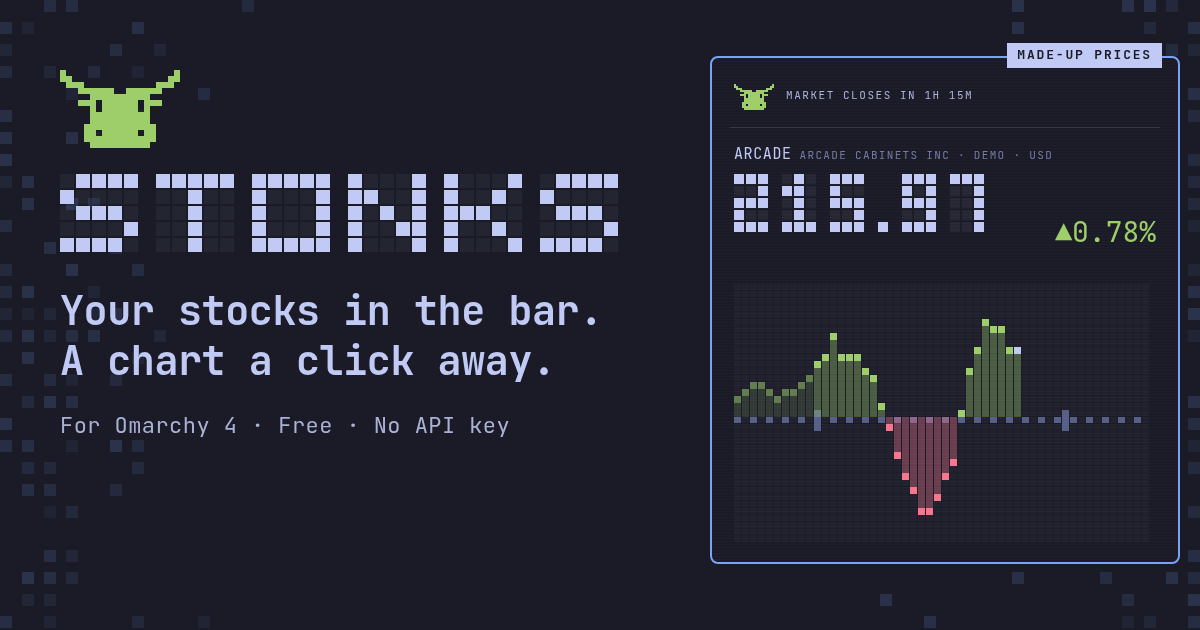
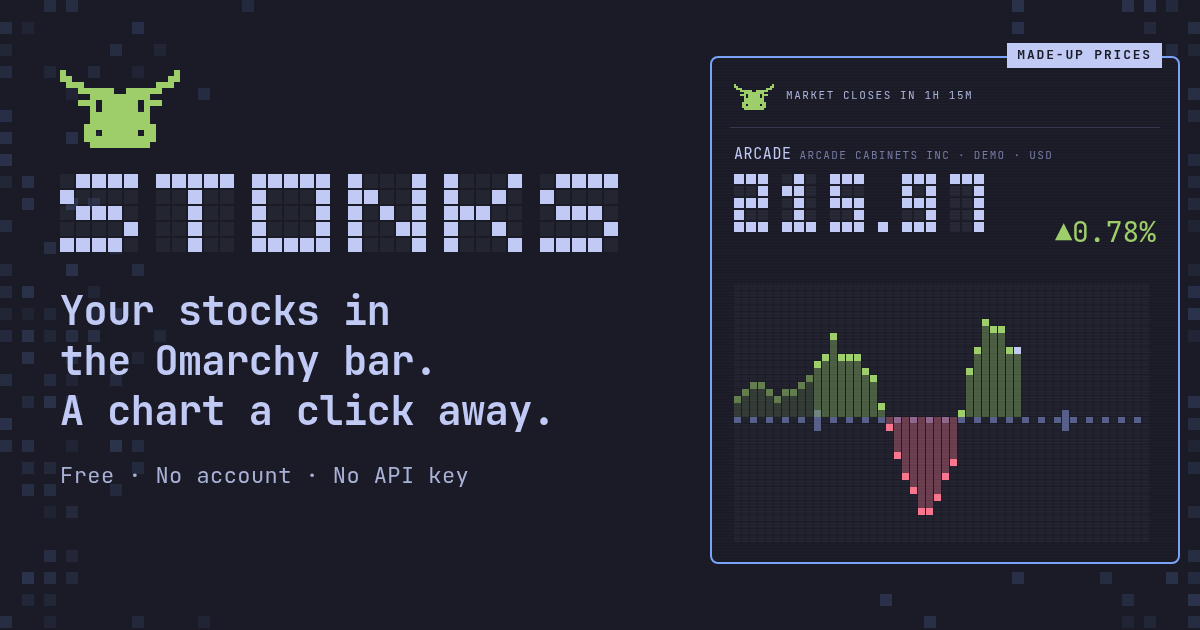
The site's words, rewritten plainly: the hero, every stage, the FAQ, the head and social tags, the alt texts, llms.txt and the share card say what Stonks does in short sentences, and stop naming the bull and the bear, which the pictures show (the owner, 27 October)
Facts follow Stonks 1.1.0's README: Yahoo's late exchanges are the measured ones, the house rules point to the README's own list of what Stonks runs, and the keys read as the README's table does.

diff --git a/index.html b/index.html
@@ -4,7 +4,7 @@
 <meta charset="utf-8">
 <meta name="viewport" content="width=device-width, initial-scale=1">
 <title>Stonks: a stock ticker and watchlist for the Omarchy bar</title>
-<meta name="description" content="Stonks is a free stock ticker and watchlist for the Omarchy 4 bar: today's move in a small pill, and a chart you can scrub a click away. No account and no API key.">
+<meta name="description" content="Stonks puts your stocks in the Omarchy 4 bar. A small pill shows how one is doing today. Click it for the chart and your lists. Free, with no account or API key.">
 <link rel="canonical" href="https://getstonks.app/">
 <meta name="theme-color" content="#1a1b26">
 <!-- PNGs, not an SVG: a tab draws 16 or 32 px, where only whole-pixel cells stay crisp.
@@ -17,17 +17,17 @@
 <meta property="og:type" content="website">
 <meta property="og:site_name" content="Stonks">
 <meta property="og:title" content="Stonks: a stock ticker and watchlist for the Omarchy bar">
-<meta property="og:description" content="A stock ticker and watchlist for the Omarchy bar: today's move in a small pill, and a chart you can scrub a click away. Free, with no account and no API key.">
+<meta property="og:description" content="A small pill in your Omarchy bar shows how a stock is doing today. Click it for the chart and your lists. Free, with no account or API key.">
 <meta property="og:url" content="https://getstonks.app/">
 <meta property="og:image" content="https://getstonks.app/share.png">
 <meta property="og:image:width" content="1200">
 <meta property="og:image:height" content="630">
-<meta property="og:image:alt" content="The Stonks wordmark in block letters beside its retro popup: a made-up stock's price in block digits over a day chart of pixel columns, with the bull.">
+<meta property="og:image:alt" content="Stonks' logo and the words &quot;Your stocks in the Omarchy bar. A chart a click away. Free · No account · No API key&quot;, beside its popup: a made-up stock's price over the day's chart in pixel columns.">
 <meta name="twitter:card" content="summary_large_image">
 <meta name="twitter:title" content="Stonks: a stock ticker and watchlist for the Omarchy bar">
-<meta name="twitter:description" content="A stock ticker and watchlist for the Omarchy bar: today's move in a small pill, and a chart you can scrub a click away. Free, with no account and no API key.">
+<meta name="twitter:description" content="A small pill in your Omarchy bar shows how a stock is doing today. Click it for the chart and your lists. Free, with no account or API key.">
 <meta name="twitter:image" content="https://getstonks.app/share.png">
-<meta name="twitter:image:alt" content="The Stonks wordmark in block letters beside its retro popup: a made-up stock's price in block digits over a day chart of pixel columns, with the bull.">
+<meta name="twitter:image:alt" content="Stonks' logo and the words &quot;Your stocks in the Omarchy bar. A chart a click away. Free · No account · No API key&quot;, beside its popup: a made-up stock's price over the day's chart in pixel columns.">
 
 <!-- The page's own copy of the font, asked for first, so it's there before the text is drawn
      (style.css's @font-face says why it never swaps in late). -->
@@ -42,7 +42,7 @@
   "name": "Stonks",
   "url": "https://getstonks.app/",
   "image": "https://getstonks.app/share.png",
-  "description": "Stonks is a free stock ticker and watchlist for the Omarchy 4 bar. A small pill shows how a stock is doing today, and a click opens its chart, with your lists under it.",
+  "description": "Stonks is a free stock watchlist for the Omarchy 4 bar. A small pill shows how one stock is doing today. Click it for the chart and your lists.",
   "applicationCategory": "FinanceApplication",
   "applicationSubCategory": "Omarchy shell plugin",
   "operatingSystem": "Linux (Omarchy 4)",
@@ -65,21 +65,21 @@
   "@type": "FAQPage",
   "mainEntity": [
     { "@type": "Question", "name": "What is Stonks?",
-      "acceptedAnswer": { "@type": "Answer", "text": "Stonks is a free stock ticker and watchlist for the Omarchy 4 bar. A small pill shows how a stock is doing today, and a click opens its chart, with your lists under it." } },
+      "acceptedAnswer": { "@type": "Answer", "text": "Stonks is a free stock watchlist for the Omarchy 4 bar. A small pill shows how one stock is doing today. Click it for the chart and your lists." } },
     { "@type": "Question", "name": "How do I install a stock ticker on Omarchy?",
-      "acceptedAnswer": { "@type": "Answer", "text": "Install Stonks with one command: omarchy plugin add https://github.com/gmchande/omarchy-stonks.git --enable. It needs Omarchy 4, which asks you to confirm, then where in the bar to put the pill." } },
+      "acceptedAnswer": { "@type": "Answer", "text": "Install Stonks with one command: omarchy plugin add https://github.com/gmchande/omarchy-stonks.git --enable. You need Omarchy 4. It asks you to confirm, then where to put the pill in the bar." } },
     { "@type": "Question", "name": "Does Stonks need an account or an API key?",
-      "acceptedAnswer": { "@type": "Answer", "text": "No. Stonks needs no account and no API key." } },
+      "acceptedAnswer": { "@type": "Answer", "text": "No. Stonks works without either." } },
     { "@type": "Question", "name": "Where do Stonks' prices come from?",
-      "acceptedAnswer": { "@type": "Answer", "text": "Stonks gets quotes, charts, and search from Yahoo Finance's unofficial endpoints, and overnight prices from Robinhood. Yahoo delays many exchanges' quotes by up to 30 minutes, London's and Tokyo's among them, and Stonks marks an old price with \"As of\" and its time." } },
+      "acceptedAnswer": { "@type": "Answer", "text": "From Yahoo Finance's unofficial endpoints, and overnight prices from Robinhood. Yahoo sends some exchanges' prices late, so Stonks marks an old price with \"As of\" and its time." } },
     { "@type": "Question", "name": "Does Stonks show pre-market, after-hours, and overnight prices?",
-      "acceptedAnswer": { "@type": "Answer", "text": "Yes. Stonks shows the pre-market, after-hours, or overnight price on a smaller line under the price. Overnight prices are for the US stocks and ETFs that Robinhood trades overnight. Until the next session opens, the day's chart shows the last session, then the night and the pre-market." } },
+      "acceptedAnswer": { "@type": "Answer", "text": "Yes. A smaller line under the price shows the pre-market, after-hours, or overnight price. Overnight prices cover the US stocks and ETFs that trade overnight on Robinhood. Until the next session opens, the day's chart shows the last session, then the night and the pre-market." } },
     { "@type": "Question", "name": "Which markets does Stonks follow?",
-      "acceptedAnswer": { "@type": "Answer", "text": "Stonks follows stocks, ETFs, indexes, and crypto, from New York to London and Tokyo, each in its own currency. It never converts a price into another currency." } },
+      "acceptedAnswer": { "@type": "Answer", "text": "Stocks, ETFs, indexes, and crypto, from New York to London and Tokyo. Each price stays in its listing's own currency: Stonks never converts it." } },
     { "@type": "Question", "name": "Does Stonks make sounds?",
-      "acceptedAnswer": { "@type": "Answer", "text": "Yes, short ones: when you add a symbol, remove a row, or undo the removal, and a shutter when you take a screenshot. Moving along the chart plays it like a row of chimes, and a soft bell rings as the market opens and closes. Sounds start off: click the speaker at the top right, or press m, to turn them on." } },
+      "acceptedAnswer": { "@type": "Answer", "text": "Only if you turn them on: click the speaker at the top right, or press m. Then adding or removing a row makes a short sound, the chart chimes as you run the pointer along it, and a soft bell rings as the market opens and closes." } },
     { "@type": "Question", "name": "Does Stonks track my portfolio or send price alerts?",
-      "acceptedAnswer": { "@type": "Answer", "text": "No. Stonks doesn't track holdings, send price alerts, or convert prices into another currency. It shows prices and charts for the stocks you follow." } },
+      "acceptedAnswer": { "@type": "Answer", "text": "No. Stonks shows prices and charts for the stocks you follow. It doesn't track your holdings or send price alerts." } },
     { "@type": "Question", "name": "What does Stonks cost?",
       "acceptedAnswer": { "@type": "Answer", "text": "Nothing. Stonks is free and open source, under the MIT license." } }
   ]
@@ -107,21 +107,21 @@
   <canvas class="scatter" aria-hidden="true"></canvas>
   <div class="hero-inner">
     <div class="hero-copy">
-      <p class="eyebrow">A stock watchlist for the Omarchy 4 bar</p>
-      <h1 class="wordmark"><span class="blocks" data-text="STONKS" data-cell="16" aria-hidden="true"></span><span class="sr">Stonks, a stock ticker and watchlist for Omarchy</span></h1>
-      <p class="lead">Today's move in your bar, and a chart you can scrub a click away.</p>
-      <p class="answer">Stonks is a free stock ticker and watchlist for the Omarchy 4 bar. It follows stocks, ETFs, indexes, and crypto, in your theme's colors, with no account and no API key.</p>
+      <p class="eyebrow">A plugin for Omarchy 4</p>
+      <h1 class="wordmark"><span class="blocks" data-text="STONKS" data-cell="16" aria-hidden="true"></span><span class="sr">Stonks</span></h1>
+      <p class="lead">Your stocks in the bar. A chart a click away.</p>
+      <p class="answer">Stonks is a free stock watchlist for the Omarchy bar. A small pill shows how one stock is doing today. Click it for the chart and your lists. It follows stocks, ETFs, indexes, and crypto, and needs no account or API key.</p>
       <div class="term" data-copy>
         <div class="term-bar"><span>INSTALL</span><button type="button" class="copy">Copy</button></div>
         <pre><code><span class="prompt" aria-hidden="true">$ </span>omarchy plugin add https://github.com/gmchande/omarchy-stonks.git <span class="nw">--enable</span><span class="cursor" aria-hidden="true"></span></code></pre>
       </div>
-      <p class="fine">Needs Omarchy 4, which asks you to confirm, then where in the bar to put the pill. Stonks is on the <a href="https://plugins.omarchy.org/plugin.html?id=grvc.stonks">Omarchy plugin marketplace</a>.</p>
+      <p class="fine">You need Omarchy 4. It asks you to confirm, then where to put the pill in the bar. Stonks is also on the <a href="https://plugins.omarchy.org/plugin.html?id=grvc.stonks">Omarchy plugin marketplace</a>.</p>
     </div>
 
     <figure class="demo-wrap">
       <div class="demo-tag" aria-hidden="true">DEMO · MADE-UP PRICES</div>
       <div class="popup" id="demo" role="group" aria-label="A working copy of Stonks' popup, with made-up symbols and prices"></div>
-      <figcaption>Made-up symbols and prices. Point at the chart to scrub back through the day, and click the bull or the bear to replay it. Once you've clicked on the page, it plays Stonks' sounds: the speaker, or <kbd>m</kbd>, turns them off. Press <kbd>?</kbd> for keys.</figcaption>
+      <figcaption>Try it. Run the pointer along the chart to go back through the day, or click the icon at the top left to replay it. Sound starts with your first click or key, and the speaker or <kbd>m</kbd> turns it off. Press <kbd>?</kbd> for the keys.</figcaption>
     </figure>
   </div>
   <canvas class="skyline" aria-hidden="true"></canvas>
@@ -131,7 +131,7 @@
   <div class="stage day-head">
     <p class="stage-label"><span class="stage-word">STAGE</span><span class="blocks" data-text="1" data-cell="6" aria-hidden="true"></span><span class="sr">1</span><span>ONE DAY</span></p>
     <h2 id="day-title">A Tuesday, from pre-market to after hours.</h2>
-    <p class="note day-hint">Scroll through a made-up day, or <a href="#bar">skip it</a>. Here your scroll plays the chart as it draws, the way the pointer plays it in Stonks, and the bell rings at the open and the close.</p>
+    <p class="note day-hint">Scroll to run the clock through a made-up day, or <a href="#bar">skip it</a>. The chart chimes as it draws, and a bell rings at the open and the close.</p>
   </div>
   <div class="day-track">
     <div class="day-sticky">
@@ -149,8 +149,8 @@
 
 <section class="stage" id="bar">
   <p class="stage-label"><span class="stage-word">STAGE</span><span class="blocks" data-text="2" data-cell="6" aria-hidden="true"></span><span class="sr">2</span><span>IN YOUR BAR</span></p>
-  <h2>One glance at the bar.</h2>
-  <p class="wide">The pill shows today's move for the stock you last looked at. Scroll over it to step through your list. Left-click for the popup, right-click for the window, middle-click to change its form, and drag it along the bar.</p>
+  <h2>A pill in your bar.</h2>
+  <p class="wide">The pill shows how the stock you last looked at is doing today. Scroll over it to step through your list. Click it for the popup, right-click it for the window, and drag it to move it along the bar. Middle-click it to switch what it shows: a sparkline, an arrow, the price as text, or an icon.</p>
   <div class="bar-demo">
     <div class="fake-bar" aria-hidden="true">
       <span class="ws"><b>1</b><i>2</i><i>3</i><i>4</i></span>
@@ -158,13 +158,13 @@
     </div>
     <button type="button" class="pill" id="pill"></button>
   </div>
-  <div class="forms" role="group" aria-label="The pill's four forms">
+  <div class="forms" role="group" aria-label="What the pill shows">
     <button type="button" data-form="sparkline">Sparkline</button>
     <button type="button" data-form="arrow">Arrow</button>
     <button type="button" data-form="text">Text</button>
-    <button type="button" data-form="icon">Animal</button>
+    <button type="button" data-form="icon">Icon</button>
   </div>
-  <p class="note">Here, scroll over the pill to step through the made-up stocks, and click it to change its form. In your bar, that's a middle-click. The animal is the bull on an up day and the bear on a down one.</p>
+  <p class="note">Here, scroll over the pill to step through the stocks, and click it to switch what it shows.</p>
 </section>
 
 <section class="stage" id="sound">
@@ -172,12 +172,12 @@
   <h2>A chart you can hear.</h2>
   <div class="split">
     <div>
-      <p class="wide">Run the pointer along the chart and it plays like a row of chimes, higher where the line is higher, and each step of <kbd>←</kbd> <kbd>→</kbd> rings too. A replay sweeps the chimes along the line. Smooth and retro each have their own voice.</p>
+      <p class="wide">Run the pointer along the chart and it chimes, higher where the line is higher. Each press of <kbd>←</kbd> or <kbd>→</kbd> chimes too, and a replay sweeps the chimes along the line. Smooth and retro each have their own voice.</p>
       <ul class="plain-list">
-        <li>A short sound when you add a symbol, remove a row, or undo the removal, which plays the removal backwards, and a shutter when you take a screenshot.</li>
-        <li>A soft bell as the market opens and as it closes, never while every screen is off or an app records from your microphone.</li>
-        <li>Nothing else sounds by itself: no refresh or price.</li>
-        <li>In Stonks, sounds start off: click the speaker at the top right, or press <kbd>m</kbd>, to turn them on, and again to turn them off. Your system volume sets how loud they are.</li>
+        <li>Adding a symbol or removing a row makes a short sound, and undoing plays the removal backwards. A screenshot sounds a shutter.</li>
+        <li>A soft bell rings as the market of the stock you last looked at opens and closes, but not while every screen is off or an app is recording from your microphone.</li>
+        <li>Refreshes and prices make no sound.</li>
+        <li>Stonks starts silent. To turn sounds on, click the speaker at the top right, or press <kbd>m</kbd>. Your system volume sets how loud they are.</li>
       </ul>
     </div>
     <div class="sound-test">
@@ -198,19 +198,18 @@
 
 <section class="stage" id="screenshot">
   <p class="stage-label"><span class="stage-word">STAGE</span><span class="blocks" data-text="4" data-cell="6" aria-hidden="true"></span><span class="sr">4</span><span>SCREENSHOTS</span></p>
-  <h2>A picture of the chart, laid out to share.</h2>
+  <h2>A picture of the chart, ready to post.</h2>
   <div class="split">
     <div>
-      <p class="wide">Click the camera at the top right, or press <kbd>Ctrl+C</kbd>, for a picture of the chart you're looking at.</p>
+      <p class="wide">Click the camera at the top right, or press <kbd>Ctrl+C</kbd>, for a picture of the chart you're looking at. It's sized so X shows it whole.</p>
       <ul class="plain-list">
-        <li>The price large with its currency, its move, the day's bull or bear, the exchange, and the time of the price with its zone.</li>
-        <li>On a longer range, its high and low on the chart. At the foot, the day's date or the range's length.</li>
-        <li>Scrubbed, it shows the moment you scrubbed to. Your list is never in it.</li>
-        <li>It lands where Omarchy's own screenshots do: a file in your screenshots folder, the picture on the clipboard, and a notification that opens it in your screenshot editor.</li>
+        <li>It shows the price and its move, the exchange, and the time with its zone.</li>
+        <li>If you've gone back through the day, it shows that moment. Your list is never in it.</li>
+        <li>Stonks saves it with Omarchy's own screenshots, copies it to the clipboard, and shows a notification. Click the notification to open the picture in your screenshot editor.</li>
       </ul>
     </div>
     <figure class="share-shot">
-      <img data-look-src="img/screenshot-{look}.webp" src="img/screenshot-retro.webp" width="2400" height="1350" loading="lazy" alt="The picture Stonks made of SPY on Wednesday 7 October 2026 at 14:55 New York time, in retro: 777.56 USD, down 0.20% from the previous close of 779.09, the bear, and the day's chart from midnight.">
+      <img data-look-src="img/screenshot-{look}.webp" src="img/screenshot-retro.webp" width="2400" height="1350" loading="lazy" alt="The picture Stonks made of SPY on Wednesday 7 October 2026 at 14:55 New York time, in retro: 777.56 USD, down 0.20% from the previous close of 779.09, over the day's chart from midnight.">
       <figcaption>A picture Stonks made of SPY's day, from real past prices.</figcaption>
     </figure>
   </div>
@@ -221,17 +220,17 @@
   <h2>What's in the cartridge.</h2>
   <div class="cart">
     <ul class="label-list">
-      <li>Click the pill for the day's chart and scrub it with the pointer. Charts go from one day to all time, each with its high and low marked.</li>
-      <li>Pre-market, after-hours, and overnight prices, and when the market opens or closes. Until the next session opens, the day's chart shows the last session, then the night and the pre-market.</li>
-      <li>Stocks, ETFs, indexes, and crypto, from New York to London and Tokyo, each in its own currency.</li>
-      <li>The past 52 weeks' low and high, beside the market cap and P/E.</li>
-      <li>A tiled window too: the popup's chart and rows at the window's width.</li>
-      <li>An old price says "As of" and its time, and a refresh that fails puts a "!" on the pill. When Yahoo sends no prices at all, the header says "Can't get prices" once, not on every row.</li>
-      <li>No account and no API key.</li>
+      <li>Stocks, ETFs, indexes, and crypto, from New York to London and Tokyo, with charts from one day to all time.</li>
+      <li>Pre-market, after-hours, and overnight prices, and when the market opens or closes.</li>
+      <li>Prices as Yahoo and Robinhood send them, in each listing's own currency and its exchange's own time.</li>
+      <li>The 52-week low and high, the market cap, and the P/E.</li>
+      <li>A tiled window too, with the popup's chart and rows at the window's width.</li>
+      <li>An old price says "As of" and its time. A "!" on the pill means a refresh failed or is late.</li>
+      <li>Light on your computer: Stonks fetches nothing while every screen is off, and fetches each stock only as often as its market moves.</li>
     </ul>
     <div class="not-label">
       <p class="not-title">NOT IN THE CARTRIDGE</p>
-      <p>Stonks doesn't track holdings, send price alerts, or convert prices into another currency.</p>
+      <p>Stonks doesn't track your holdings, send price alerts, or convert currencies.</p>
     </div>
   </div>
 </section>
@@ -241,12 +240,12 @@
   <h2>Lists of your own.</h2>
   <div class="split">
     <div>
-      <p class="wide">All holds every symbol you follow. Your own lists, such as a portfolio or a sector, hold some of them. Click the list's name to switch lists, start one, or manage them.</p>
+      <p class="wide">All holds every symbol you follow. Your own lists, such as a portfolio or a sector, each hold some of them. Click the list's name to switch lists, start a new one, or manage them.</p>
       <ul class="plain-list">
-        <li>Ctrl-click a row, or select it and press <kbd>Ctrl+Enter</kbd>, to choose the lists it's in.</li>
-        <li>Remove a row with the × beside its symbol, or <kbd>Delete</kbd>. Right-click it to choose where it goes from, such as "Remove from all 3 lists". Removing a symbol from All removes it everywhere.</li>
-        <li>Removed one by mistake? For 5 seconds, "Undo NVDA" shows beside "+ Add a symbol": click it to bring the row back. Until a list next changes, <kbd>Ctrl+Z</kbd> does the same.</li>
-        <li>Click the sign at the end of the list's header to show every row's move as a percent, an amount, or since the open.</li>
+        <li>To choose which lists a row is in, Ctrl-click it, or select it and press <kbd>Ctrl+Enter</kbd>.</li>
+        <li>To remove a row, click the × beside its symbol, or select it and press <kbd>Delete</kbd>. Removing it from All removes it from every list. Right-click a row to choose which lists it leaves.</li>
+        <li>Removed one by mistake? For 5 seconds, a button such as "Undo NVDA" shows beside "+ Add a symbol". <kbd>Ctrl+Z</kbd> also undoes it, until you change a list again.</li>
+        <li>Click the % at the end of the list's header to show each row's change as an amount, or since the open.</li>
         <li>Sort by symbol, name, or change, or keep your own order.</li>
       </ul>
     </div>
@@ -260,7 +259,7 @@
 <section class="stage" id="themes">
   <p class="stage-label"><span class="stage-word">STAGE</span><span class="blocks" data-text="7" data-cell="6" aria-hidden="true"></span><span class="sr">7</span><span>SELECT YOUR THEME</span></p>
   <h2>Smooth or retro, in your theme.</h2>
-  <p class="wide">Stonks opens in retro: the price in block digits and the charts in pixel columns, the way Omarchy draws its logo. Smooth draws them in lines. Both draw in your theme's colors, light themes too.</p>
+  <p class="wide">Stonks opens in retro, with block digits for the price and pixel columns for the chart, the way Omarchy draws its logo. Smooth uses plain digits and a line chart. Both draw in your theme's colors, light themes too.</p>
   <div class="select">
     <div class="picker">
       <p class="pick-title">LOOK</p>
@@ -284,7 +283,7 @@
 <section class="stage" id="keys">
   <p class="stage-label"><span class="stage-word">STAGE</span><span class="blocks" data-text="8" data-cell="6" aria-hidden="true"></span><span class="sr">8</span><span>MOVE LIST</span></p>
   <h2>Play it with the keys.</h2>
-  <p class="wide">Press <kbd>?</kbd> in the popup for a sheet of every key, the same as this list.</p>
+  <p class="wide">In Stonks, press <kbd>?</kbd> to see this list.</p>
   <dl class="moves">
     <div data-keys="ArrowUp ArrowDown"><dt><kbd>↑</kbd><kbd>↓</kbd></dt><dd>Move the selection</dd></div>
     <div data-keys="Enter"><dt><kbd>⏎</kbd></dt><dd>Show the selected row's chart</dd></div>
@@ -296,20 +295,20 @@
     <div data-keys="a"><dt><kbd>a</kbd></dt><dd>Add a symbol</dd></div>
     <div data-keys="Delete Backspace"><dt><kbd>Del</kbd><kbd>⌫</kbd></dt><dd>Remove the selected row</dd></div>
     <div data-keys="Ctrl+z"><dt><kbd>Ctrl+Z</kbd></dt><dd>Undo a removal</dd></div>
-    <div data-keys="Shift+ArrowUp Shift+ArrowDown"><dt><kbd>⇧↑</kbd><kbd>⇧↓</kbd></dt><dd>Move the row in your own order</dd></div>
+    <div data-keys="Shift+ArrowUp Shift+ArrowDown"><dt><kbd>⇧↑</kbd><kbd>⇧↓</kbd></dt><dd>Move the selected row, in your own order</dd></div>
     <div data-keys="o"><dt><kbd>o</kbd></dt><dd>Change the order</dd></div>
     <div data-keys="O"><dt><kbd>Shift+O</kbd></dt><dd>Reverse the order</dd></div>
     <div data-keys="w"><dt><kbd>w</kbd></dt><dd>Open the list menu</dd></div>
-    <div data-keys="c"><dt><kbd>c</kbd></dt><dd>Show the change as %, amount or since the open</dd></div>
-    <div data-keys="s"><dt><kbd>s</kbd></dt><dd>Smooth or retro</dd></div>
-    <div data-keys="m"><dt><kbd>m</kbd></dt><dd>Sound on or off</dd></div>
+    <div data-keys="c"><dt><kbd>c</kbd></dt><dd>Show the change as a percent, an amount, or since the open</dd></div>
+    <div data-keys="s"><dt><kbd>s</kbd></dt><dd>Switch between smooth and retro</dd></div>
+    <div data-keys="m"><dt><kbd>m</kbd></dt><dd>Turn sounds on or off</dd></div>
     <div data-keys="r"><dt><kbd>r</kbd></dt><dd>Refresh</dd></div>
-    <div data-keys="U"><dt><kbd>Shift+U</kbd></dt><dd>Update Stonks when a newer one is out, then restart the shell</dd></div>
+    <div data-keys="U"><dt><kbd>Shift+U</kbd></dt><dd>Update Stonks when a new version is out; press again to restart the shell</dd></div>
     <div data-keys="Tab Shift+Tab"><dt><kbd>Tab</kbd><kbd>⇧Tab</kbd></dt><dd>Next or previous panel on the bar (popup)</dd></div>
-    <div data-keys="?"><dt><kbd>?</kbd></dt><dd>All keys</dd></div>
+    <div data-keys="?"><dt><kbd>?</kbd></dt><dd>Show every key</dd></div>
     <div data-keys="Escape"><dt><kbd>Esc</kbd></dt><dd>Close</dd></div>
   </dl>
-  <p class="note"><span class="keys-only">Press one of these keys to light up its move. On this page, <kbd>s</kbd> and <kbd>m</kbd> work too. </span>The same table is in the <a href="https://github.com/gmchande/omarchy-stonks#keys">README</a>.</p>
+  <p class="note"><span class="keys-only">Press a key to light up its move. <kbd>s</kbd> and <kbd>m</kbd> work on this page too. </span>The <a href="https://github.com/gmchande/omarchy-stonks#keys">README</a> has the same table.</p>
 </section>
 
 <section class="stage" id="rules">
@@ -317,11 +316,11 @@
   <h2>What Stonks runs, fetches, and writes.</h2>
   <dl class="rules">
     <div><dt>PRICES</dt><dd>Quotes, charts, and search come from Yahoo's unofficial endpoints, and overnight prices from Robinhood. Either may change or stop without notice.</dd></div>
-    <div><dt>DELAYS</dt><dd>Yahoo delays many exchanges' quotes, London's and Tokyo's among them, by up to 30 minutes. Any price more than two minutes old while its market trades says "As of" and its time.</dd></div>
-    <div><dt>RUNS</dt><dd><code>curl</code> for every request. PipeWire's <code>pw-play</code> for each sound, <code>pw-cat</code> playing silence while you scrub, so each chime plays at once, and <code>pw-dump</code> as a bell is due, to see whether an app records from a microphone. For a screenshot, <code>wl-copy</code> to put it on the clipboard, and Omarchy's notification. <code>omarchy restart shell</code>, only when you click the notice that an update is on disk. <code>omarchy plugin update grvc.stonks</code>, in a terminal, only when you click "Update to …" or press <kbd>Shift+U</kbd>.</dd></div>
-    <div><dt>SITES</dt><dd><code>query1.finance.yahoo.com</code> for quotes, charts, and the market cap and P/E; <code>query2.finance.yahoo.com</code> for search; <code>api.robinhood.com</code> for overnight prices and which stocks trade overnight; and <code>raw.githubusercontent.com</code> for the newest version number, as the shell starts and then once a day. Nothing else.</dd></div>
-    <div><dt>FILES</dt><dd>Your lists and settings in <code>~/.config/omarchy/grvc.stonks.json</code>. In <code>~/.cache/grvc.stonks</code>, the last quotes and, while sounds are on, the sounds it makes from the chart. Each screenshot you take, in the folder Omarchy's own screenshots use.</dd></div>
-    <div><dt>UPDATES</dt><dd>Never by itself. When a newer version is out, the footer offers it.</dd></div>
+    <div><dt>DELAYS</dt><dd>Yahoo sends some exchanges' prices late. When we measured, London's came 15 minutes late, and New York's and crypto within a minute. A price more than two minutes old while its market trades says "As of" and its time.</dd></div>
+    <div><dt>RUNS</dt><dd>Only commands Omarchy ships: <code>curl</code> for every request, PipeWire's <code>pw-play</code> for each sound, <code>wl-copy</code> to put a screenshot on the clipboard, and a few more the <a href="https://github.com/gmchande/omarchy-stonks#what-it-runs">README</a> lists. It runs <code>omarchy plugin update grvc.stonks</code> and <code>omarchy restart shell</code> only when you ask.</dd></div>
+    <div><dt>SITES</dt><dd><code>query1.finance.yahoo.com</code> for prices, charts, the market cap, and the P/E; <code>query2.finance.yahoo.com</code> for search; <code>api.robinhood.com</code> for overnight prices; and <code>raw.githubusercontent.com</code> for the newest version number, as the shell starts and once a day. Nothing else.</dd></div>
+    <div><dt>FILES</dt><dd>Your lists and settings, in <code>~/.config/omarchy/grvc.stonks.json</code>. The last prices and Stonks' own sounds, in <code>~/.cache/grvc.stonks</code>. Each screenshot you take, in the folder Omarchy's own screenshots use.</dd></div>
+    <div><dt>UPDATES</dt><dd>Never by itself. When a new version is out, the footer offers it.</dd></div>
     <div><dt>ADVICE</dt><dd>None. Stonks isn't investment advice, and isn't affiliated with Yahoo or Robinhood.</dd></div>
   </dl>
 </section>
@@ -330,14 +329,14 @@
   <p class="stage-label"><span class="stage-word">STAGE</span><span class="blocks" data-text="10" data-cell="6" aria-hidden="true"></span><span class="sr">10</span><span>QUESTIONS</span></p>
   <h2>Asked and answered.</h2>
   <div class="faq">
-    <section class="qa"><h3>What is Stonks?</h3><p>Stonks is a free stock ticker and watchlist for the Omarchy 4 bar. A small pill shows how a stock is doing today, and a click opens its chart, with your lists under it.</p></section>
-    <section class="qa"><h3>How do I install a stock ticker on Omarchy?</h3><p>Install Stonks with one command: <code>omarchy plugin add https://github.com/gmchande/omarchy-stonks.git <span class="nw">--enable</span></code>. It needs Omarchy 4, which asks you to confirm, then where in the bar to put the pill.</p></section>
-    <section class="qa"><h3>Does Stonks need an account or an API key?</h3><p>No. Stonks needs no account and no API key.</p></section>
-    <section class="qa"><h3>Where do Stonks' prices come from?</h3><p>Stonks gets quotes, charts, and search from Yahoo Finance's unofficial endpoints, and overnight prices from Robinhood. Yahoo delays many exchanges' quotes by up to 30 minutes, London's and Tokyo's among them, and Stonks marks an old price with "As of" and its time.</p></section>
-    <section class="qa"><h3>Does Stonks show pre-market, after-hours, and overnight prices?</h3><p>Yes. Stonks shows the pre-market, after-hours, or overnight price on a smaller line under the price. Overnight prices are for the US stocks and ETFs that Robinhood trades overnight. Until the next session opens, the day's chart shows the last session, then the night and the pre-market.</p></section>
-    <section class="qa"><h3>Which markets does Stonks follow?</h3><p>Stonks follows stocks, ETFs, indexes, and crypto, from New York to London and Tokyo, each in its own currency. It never converts a price into another currency.</p></section>
-    <section class="qa"><h3>Does Stonks make sounds?</h3><p>Yes, short ones: when you add a symbol, remove a row, or undo the removal, and a shutter when you take a screenshot. Moving along the chart plays it like a row of chimes, and a soft bell rings as the market opens and closes. Sounds start off: click the speaker at the top right, or press m, to turn them on.</p></section>
-    <section class="qa"><h3>Does Stonks track my portfolio or send price alerts?</h3><p>No. Stonks doesn't track holdings, send price alerts, or convert prices into another currency. It shows prices and charts for the stocks you follow.</p></section>
+    <section class="qa"><h3>What is Stonks?</h3><p>Stonks is a free stock watchlist for the Omarchy 4 bar. A small pill shows how one stock is doing today. Click it for the chart and your lists.</p></section>
+    <section class="qa"><h3>How do I install a stock ticker on Omarchy?</h3><p>Install Stonks with one command: <code>omarchy plugin add https://github.com/gmchande/omarchy-stonks.git <span class="nw">--enable</span></code>. You need Omarchy 4. It asks you to confirm, then where to put the pill in the bar.</p></section>
+    <section class="qa"><h3>Does Stonks need an account or an API key?</h3><p>No. Stonks works without either.</p></section>
+    <section class="qa"><h3>Where do Stonks' prices come from?</h3><p>From Yahoo Finance's unofficial endpoints, and overnight prices from Robinhood. Yahoo sends some exchanges' prices late, so Stonks marks an old price with "As of" and its time.</p></section>
+    <section class="qa"><h3>Does Stonks show pre-market, after-hours, and overnight prices?</h3><p>Yes. A smaller line under the price shows the pre-market, after-hours, or overnight price. Overnight prices cover the US stocks and ETFs that trade overnight on Robinhood. Until the next session opens, the day's chart shows the last session, then the night and the pre-market.</p></section>
+    <section class="qa"><h3>Which markets does Stonks follow?</h3><p>Stocks, ETFs, indexes, and crypto, from New York to London and Tokyo. Each price stays in its listing's own currency: Stonks never converts it.</p></section>
+    <section class="qa"><h3>Does Stonks make sounds?</h3><p>Only if you turn them on: click the speaker at the top right, or press m. Then adding or removing a row makes a short sound, the chart chimes as you run the pointer along it, and a soft bell rings as the market opens and closes.</p></section>
+    <section class="qa"><h3>Does Stonks track my portfolio or send price alerts?</h3><p>No. Stonks shows prices and charts for the stocks you follow. It doesn't track your holdings or send price alerts.</p></section>
     <section class="qa"><h3>What does Stonks cost?</h3><p>Nothing. Stonks is free and open source, under the MIT license.</p></section>
   </div>
 </section>
@@ -356,7 +355,7 @@
     <pre><code><span class="prompt" aria-hidden="true">$ </span>omarchy plugin add https://github.com/gmchande/omarchy-stonks.git <span class="nw">--enable</span></code></pre>
   </div>
   <ol class="steps">
-    <li>Omarchy warns that plugins run unsandboxed and asks you to confirm.</li>
+    <li>Omarchy warns that plugins run without a sandbox, and asks you to confirm.</li>
     <li>It asks where in the bar to put the pill. The center is the default.</li>
     <li>Click the pill.</li>
   </ol>
@@ -367,7 +366,7 @@
 
 <footer class="foot">
   <p><a href="https://github.com/gmchande/omarchy-stonks">GitHub</a> · <a href="https://github.com/gmchande/omarchy-stonks#readme">README</a> · <a href="https://plugins.omarchy.org/plugin.html?id=grvc.stonks">Marketplace</a> · <a href="https://github.com/gmchande/omarchy-stonks/issues/new?template=bug.yml">Report a bug</a></p>
-  <p>Stonks is MIT licensed, by Gaurav Chande. It isn't investment advice, and isn't affiliated with Yahoo or Robinhood. Every price this page draws is made up. The pictures are Stonks' own screens, from its test data, and the sounds are its own.</p>
+  <p>Stonks is by Gaurav Chande, under the MIT license. It isn't investment advice, and isn't affiliated with Yahoo or Robinhood. Every price this page draws is made up. The pictures are Stonks' own screens, from its test data, and the sounds are its own.</p>
 </footer>
 
 <script src="cells.js"></script>

diff --git a/app.js b/app.js
@@ -258,7 +258,7 @@
             <dt><kbd>←</kbd> <kbd>→</kbd></dt><dd>Scrub one step</dd>
             <dt><kbd>[</kbd> <kbd>]</kbd></dt><dd>Change the range</dd>
             <dt><kbd>p</kbd></dt><dd>Replay the chart</dd>
-            <dt><kbd>c</kbd></dt><dd>Cycle the day's change</dd>
+            <dt><kbd>c</kbd></dt><dd>Show the change as a percent, an amount, or since the open</dd>
             <dt><kbd>s</kbd></dt><dd>Smooth or retro</dd>
             <dt><kbd>m</kbd></dt><dd>Sound on or off</dd>
             <dt><kbd>Esc</kbd></dt><dd>Close this sheet, then the scrub</dd>
@@ -375,7 +375,7 @@
       el.animal.hidden = !dir;
       if (dir) {
         el.animal.innerHTML = Cells.spriteSVG(Cells.sprite(dir === "up", asleep), 2, dir === "up" ? COL.up : COL.down);
-        el.animal.setAttribute("aria-label", `Replay the chart (the ${dir === "up" ? "bull" : "bear"}${asleep ? ", asleep" : ""})`);
+        el.animal.setAttribute("aria-label", "Replay the chart");
       }
       el.zz.innerHTML = asleep && dir ? Cells.spriteSVG(Cells.SLEEP_Z, 2, rgba(COL.fg, 0.5)) : "";
       el.title.textContent = s.name;
@@ -534,7 +534,7 @@
       this.root.classList.remove("flash");
       void this.root.offsetWidth;
       this.root.classList.add("flash");
-      this.toast(`In Stonks, a picture of this chart. <a href="#screenshot">See one</a>`, 5000);
+      this.toast(`In Stonks, this saves a picture of the chart. <a href="#screenshot">See one</a>`, 5000);
     }
 
     // A removal takes the row out, and for 5 seconds "Undo …" shows beside
@@ -585,7 +585,7 @@
     putBack() {
       const last = this.removed[this.removed.length - 1];
       if (!last) {
-        this.toast("In Stonks, this searches for any stock, ETF, index, or coin.", 3000);
+        this.toast("In Stonks, this searches for any stock, ETF, index, or crypto.", 3000);
         return;
       }
       Sound.play(Look.retro, "add");
@@ -843,7 +843,7 @@
       // The day's animal: the bull up, the bear down, nothing on a flat day.
       pill.innerHTML = t ? Cells.spriteSVG(Cells.sprite(t === "up", false), 2, color) : "";
     }
-    pill.setAttribute("aria-label", `Stonks' pill as ${form === "icon" ? `the ${t === "up" ? "bull" : t === "down" ? "bear" : "day's animal"}` : `a ${form}`}, made-up prices: ${s.sym} ${signed(q.pct, false, "%")}. Click to change its form.`);
+    pill.setAttribute("aria-label", `Stonks' pill as ${{ sparkline: "a sparkline", arrow: "an arrow", text: "the price as text", icon: "an icon for the day" }[form]}, made-up prices: ${s.sym} ${signed(q.pct, false, "%")}. Click to switch what it shows.`);
     formButtons.forEach((b) => b.setAttribute("aria-pressed", String(b.dataset.form === form)));
   }
   const setForm = (f) => { form = f; renderPill(); };
@@ -1052,8 +1052,8 @@
 
   function paintSoundState() {
     if (!Sound.on) soundState.textContent = "Sound is off. Press m, or click the speaker, to turn it on.";
-    else if (!Sound.heard) soundState.textContent = "Sound is on, and starts once you click or press a key on this page.";
-    else soundState.textContent = `Sound is on, in ${Look.value}'s voice. Press s for the other look's, and m to turn sound off.`;
+    else if (!Sound.heard) soundState.textContent = "Sound is on. It starts with your first click or key on this page.";
+    else soundState.textContent = `Sound is on, in ${Look.value}'s voice. Press s to hear the other look, or m to turn sound off.`;
   }
   Sound.onChange(paintSoundState);
   Look.on(() => { stripTo(-1); paintSoundState(); });

diff --git a/tools/share-card.html b/tools/share-card.html
@@ -27,8 +27,8 @@
   <div class="words">
     <img class="logo" src="../img/bull.svg" width="120" height="78" alt="">
     <div class="wordmark"><span class="blocks" id="mark"></span></div>
-    <p class="say">Your stocks in the bar.<br>A chart a click away.</p>
-    <p class="facts">For Omarchy 4 · Free · No API key</p>
+    <p class="say">Your stocks in<br>the Omarchy bar.<br>A chart a click away.</p>
+    <p class="facts">Free · No account · No API key</p>
   </div>
   <div style="position: relative">
     <div class="demo-tag">MADE-UP PRICES</div>
